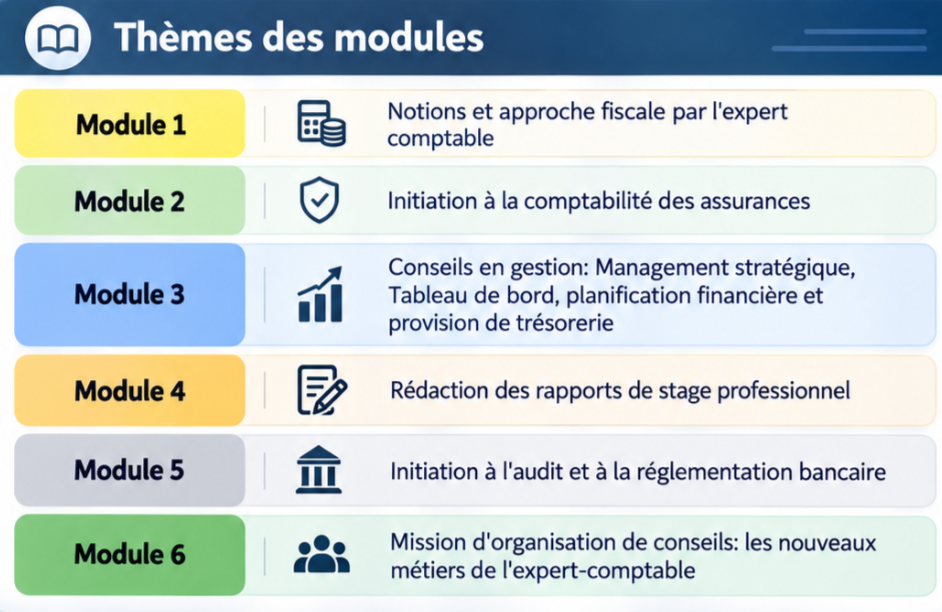
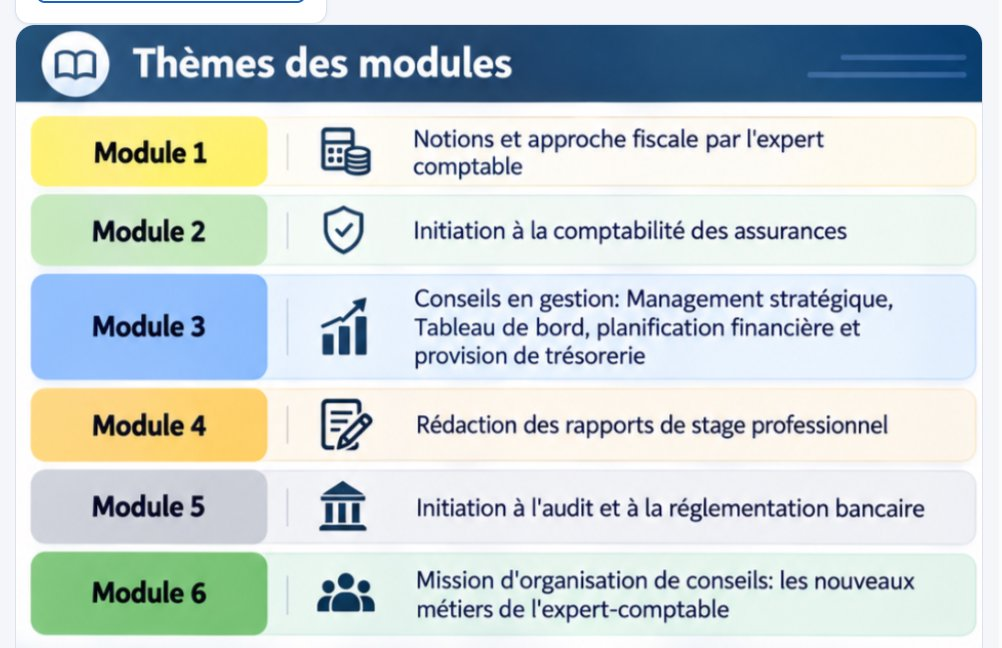
feat: actualiser le calendrier JT 1.2, integrer le demarrage JT 1.3 au 10 decembre et mettre a jour le visuel officiel des themes

diff --git a/index.html b/index.html
@@ -431,15 +431,15 @@
       <section class="launch" aria-labelledby="launch-title">
         <span class="badge">JT 1.2 · En cours</span>
         <h3 id="launch-title">Deuxième session des Journées Techniques</h3>
-        <p>Du 30 septembre au 5 décembre 2026 · Clôture définitive le 5 décembre à 23 h 59 GMT. Prochaine ouverture : Module 5 le dimanche 15 novembre 2026.</p>
+        <p>Du 30 septembre au 5 décembre 2026 · Clôture définitive le 5 décembre à 23 h 59 GMT · Démarrage des JT 1.3 le 10 décembre 2026. Prochaine ouverture : Module 5 le dimanche 15 novembre 2026.</p>
         <div class="actions"><button class="btn" type="button" data-open-tab="calendar">Voir le calendrier complet</button><a class="btn secondary" href="https://foad.decofi.cesag.sn/my/" target="_blank" rel="noopener">Ouvrir mes cours</a></div>
         <div class="module-showcase">
           <div class="module-mini"><strong>Module 1</strong><span>Notions et approche fiscale par l’expert-comptable</span><em>Hamadé OUEDRAOGO</em><a href="module-1-session-2-notions-approche-fiscale.html" class="module-pill-link">Replay &amp; Synthèse →</a></div>
           <div class="module-mini"><strong>Module 2</strong><span>Initiation à la comptabilité des assurances</span><em>Mouslimi ALASSANI</em><a href="module-2-initiation-comptabilite-assurances.html" class="module-pill-link">Replay &amp; Synthèse →</a></div>
-          <div class="module-mini"><strong>Module 3</strong><span>Conseils en gestion et planification financière</span><em>Pr Bachir WADE</em><a href="module-3-session-2-conseils-gestion.html" class="module-pill-link">★ Replay &amp; Synthèse →</a></div>
+          <div class="module-mini"><strong>Module 3</strong><span>Conseils en gestion : management stratégique, tableau de bord, planification financière</span><em>Pr Bachir WADE</em><a href="module-3-session-2-conseils-gestion.html" class="module-pill-link">★ Replay &amp; Synthèse →</a></div>
           <div class="module-mini"><strong>Module 4</strong><span>Rédaction des rapports de stage professionnel</span><em>Hamadé OUEDRAOGO</em><a href="module-4-session-2-rapport-stage.html" class="module-pill-link">Replay &amp; Synthèse →</a></div>
           <div class="module-mini"><strong>Module 5</strong><span>Initiation à l’audit et à la réglementation bancaire</span><em>Dicko &amp; Sirage</em></div>
-          <div class="module-mini"><strong>Module 6</strong><span>Mission d’organisation et de conseil</span><em>Hamadé OUEDRAOGO</em></div>
+          <div class="module-mini"><strong>Module 6</strong><span>Mission d’organisation de conseils : les nouveaux métiers de l’expert-comptable</span><em>Hamadé OUEDRAOGO</em></div>
         </div>
       </section>
 
@@ -518,7 +518,7 @@
 
     <section class="panel" id="panel-calendar" role="tabpanel" aria-labelledby="tab-calendar" hidden>
       <h2>Calendrier des Journées Techniques</h2>
-      <p class="lead"><strong>JT 1.2 — Calendrier actualisé à partir du 12 novembre 2026.</strong> Seules les échéances à venir sont affichées (les dates passées et dérogations individuelles ont été retirées). Clôture définitive le samedi 5 décembre 2026 à 23h59 GMT.</p>
+      <p class="lead"><strong>JT 1.2 — Calendrier officiel actualisé à partir du 12 novembre 2026.</strong> Seules les échéances à venir sont affichées (les dates passées et dérogations individuelles ont été retirées). Clôture définitive le samedi 5 décembre 2026 à 23h59 GMT. <strong>Lancement de la troisième session (JT 1.3) : jeudi 10 décembre 2026.</strong></p>
 
       <aside class="alert" aria-labelledby="calendar-provisional-title">
         <h3 id="calendar-provisional-title">📌 Rappels importants &amp; conditions d’accès</h3>
@@ -528,6 +528,7 @@
           <li><strong>Formulaire d’évaluation :</strong> à remplir obligatoirement avant le dernier devoir du module 6.</li>
           <li><strong>Fuseau horaire :</strong> toutes les heures indiquées sont en GMT.</li>
           <li><strong>Fin des JT 1.2 :</strong> samedi 5 décembre 2026 à 23h59 GMT.</li>
+          <li><strong>Démarrage des JT 1.3 :</strong> jeudi 10 décembre 2026.</li>
         </ul>
       </aside>
       <div style="margin: 16px 0 24px;">
@@ -679,7 +680,7 @@
 
   <script>
     "use strict";
-        const SESSIONS=[{"number":1,"title":"Session 1","period":"Du 17 juillet 2026 au 29 août 2026","moduleCount":5,"items":[{"start":"2026-07-17","end":"2026-07-20","period":"Du 17 juillet 2026 au 20 juillet 2026","module":"Module 1","section":"Section 1","theme":"Découverte de la profession d’expert-comptable"},{"start":"2026-07-21","end":"2026-07-24","period":"Du 21 juillet 2026 au 24 juillet 2026","module":"Module 1","section":"Section 2","theme":"Découverte de la profession d’expert-comptable"},{"start":"2026-07-25","end":"2026-07-28","period":"Du 25 juillet 2026 au 28 juillet 2026","module":"Module 1","section":"Section 3","theme":"Découverte de la profession d’expert-comptable"},{"start":"2026-07-29","end":"2026-08-01","period":"Du 29 juillet 2026 au 01 août 2026","module":"Module 1","section":"Section 4","theme":"Découverte de la profession d’expert-comptable"},{"start":"2026-08-01","end":"2026-08-01","period":"01 août 2026","module":"Module 2","section":"Séquence 1","theme":"Méthodologie d’audit — M. Charles KOUPHIN"},{"start":"2026-08-10","end":"2026-08-10","period":"10 août 2026","module":"Module 3","section":"Séquence 1","theme":"Mission de présentation des comptes annuels — M. Cheickna DIAWARA"},{"start":"2026-08-04","end":"2026-08-04","period":"04 août 2026","module":"Module 2","section":"Séquence 2","theme":"Techniques et outils"},{"start":"2026-08-15","end":"2026-08-15","period":"15 août 2026","module":"Module 3","section":"Séquence 2","theme":"Mission de présentation des comptes annuels"},{"start":"2026-08-07","end":"2026-08-07","period":"07 août 2026","module":"Module 2","section":"Séquence 3","theme":"Documentation et papiers de travail"},{"start":"2026-08-10","end":"2026-08-10","period":"10 août 2026","module":"Module 2","section":"Séquence 4","theme":"Rapports d’audit"},{"start":"2026-08-20","end":"2026-08-20","period":"20 août 2026","module":"Module 3","section":"Séquence 3","theme":"Mission de présentation des comptes annuels"},{"start":"2026-08-10","end":"2026-08-13","period":"Du 10 août 2026 au 13 août 2026","module":"Module 4","section":"Section 1","theme":"Circularisation des tiers et inventaires de stocks"},{"start":"2026-08-25","end":"2026-08-25","period":"25 août 2026","module":"Module 3","section":"Séquence 4","theme":"Mission de présentation des comptes annuels"},{"start":"2026-08-14","end":"2026-08-17","period":"Du 14 août 2026 au 17 août 2026","module":"Module 4","section":"Section 2","theme":"Circularisation des tiers et inventaires de stocks"},{"start":"2026-08-15","end":"2026-08-15","period":"15 août 2026 à 23 h 59","module":"Module 2","section":"Échéance","theme":"Date limite des quiz et du devoir individuel (PDF, 2 pages maximum)"},{"start":"2026-08-18","end":"2026-08-21","period":"Du 18 août 2026 au 21 août 2026","module":"Module 4","section":"Section 3","theme":"Circularisation des tiers et inventaires de stocks"},{"start":"2026-08-18","end":"2026-08-21","period":"Du 18 août 2026 au 21 août 2026","module":"Module 5","section":"Section 1","theme":"Sensibilisation à la déontologie et à la pratique professionnelle — M. ALASSANI"},{"start":"2026-08-22","end":"2026-08-25","period":"Du 22 août 2026 au 25 août 2026","module":"Module 4","section":"Section 4","theme":"Circularisation des tiers et inventaires de stocks"},{"start":"2026-08-22","end":"2026-08-25","period":"Du 22 août 2026 au 25 août 2026","module":"Module 5","section":"Section 2","theme":"Sensibilisation à la déontologie et à la pratique professionnelle"},{"start":"2026-08-26","end":"2026-08-29","period":"Du 26 août 2026 au 29 août 2026","module":"Module 5","section":"Section 3","theme":"Sensibilisation à la déontologie et à la pratique professionnelle"}]},{"number":2,"title":"Deuxième session — JT 1.2 (Séquences à venir)","period":"Du 15 novembre au 5 décembre 2026","moduleCount":2,"items":[{"start":"2026-11-15","end":"2026-11-17","period":"Dimanche 15 novembre 2026","module":"Module 5","section":"Séquence 1","theme":"Accueil du module et séquence 1 : forum, quiz de vérification des acquis, travail de groupe (un seul dépôt par groupe)","presenter":"Initiation à l’audit et à la réglementation bancaire"},{"start":"2026-11-18","end":"2026-11-20","period":"Mercredi 18 novembre 2026","module":"Module 5","section":"Séquence 2","theme":"Support de cours, quiz, forum","presenter":"Initiation à l’audit et à la réglementation bancaire"},{"start":"2026-11-21","end":"2026-11-23","period":"Samedi 21 novembre 2026","module":"Module 5","section":"Séquence 3","theme":"Support de cours, quiz","presenter":"Initiation à l’audit et à la réglementation bancaire"},{"start":"2026-11-24","end":"2026-11-26","period":"Mardi 24 novembre 2026","module":"Module 5","section":"Séquence 4","theme":"Support de cours, quiz","presenter":"Initiation à l’audit et à la réglementation bancaire"},{"start":"2026-11-27","end":"2026-11-27","period":"Vendredi 27 novembre 2026 à 23 h 59","module":"Module 5","section":"Date limite","theme":"Date limite du module 5 : pour les quatre quiz et le travail de groupe","presenter":"Initiation à l’audit et à la réglementation bancaire"},{"start":"2026-11-29","end":"2026-12-01","period":"Dimanche 29 novembre 2026","module":"Module 6","section":"Séquence 1","theme":"Accueil, bienvenue, ressources, séquence 1 (forum et quiz), formulaire d’évaluation","presenter":"Mission d’organisation de conseils : les nouveaux métiers de l’expert-comptable"},{"start":"2026-12-02","end":"2026-12-04","period":"Mercredi 2 décembre 2026","module":"Module 6","section":"Séquence 2","theme":"Séquence 2 : forum, quiz, devoir « Travail à rendre »","presenter":"Mission d’organisation de conseils : les nouveaux métiers de l’expert-comptable"},{"start":"2026-12-05","end":"2026-12-05","period":"Samedi 5 décembre 2026 à 23 h 59","module":"Module 6","section":"Date limite & Fin JT 1.2","theme":"Date limite du module 6 (quiz, formulaire d’évaluation, devoir) — Fin des JT 1.2 à 23h59 GMT","presenter":"Mission d’organisation de conseils : les nouveaux métiers de l’expert-comptable"}]},{"number":3,"title":"Session 3","period":"Du 03 novembre 2026 au 22 décembre 2026","moduleCount":5,"items":[{"start":"2026-11-03","end":"2026-11-06","period":"Du 03 novembre 2026 au 06 novembre 2026","module":"Module 1","section":"Section 1","theme":"Sensibilisation à la lutte contre le blanchiment et le financement du terrorisme"},{"start":"2026-11-07","end":"2026-11-10","period":"Du 07 novembre 2026 au 10 novembre 2026","module":"Module 1","section":"Section 2","theme":"Sensibilisation à la lutte contre le blanchiment et le financement du terrorisme"},{"start":"2026-11-11","end":"2026-11-14","period":"Du 11 novembre 2026 au 14 novembre 2026","module":"Module 1","section":"Section 3","theme":"Sensibilisation à la lutte contre le blanchiment et le financement du terrorisme"},{"start":"2026-11-11","end":"2026-11-14","period":"Du 11 novembre 2026 au 14 novembre 2026","module":"Module 2","section":"Section 1","theme":"Prise en compte de la réglementation sociale"},{"start":"2026-11-15","end":"2026-11-18","period":"Du 15 novembre 2026 au 18 novembre 2026","module":"Module 1","section":"Section 4","theme":"Sensibilisation à la lutte contre le blanchiment et le financement du terrorisme"},{"start":"2026-11-15","end":"2026-11-18","period":"Du 15 novembre 2026 au 18 novembre 2026","module":"Module 2","section":"Section 2","theme":"Prise en compte de la réglementation sociale"},{"start":"2026-11-19","end":"2026-11-22","period":"Du 19 novembre 2026 au 22 novembre 2026","module":"Module 2","section":"Section 3","theme":"Prise en compte de la réglementation sociale"},{"start":"2026-11-19","end":"2026-11-22","period":"Du 19 novembre 2026 au 22 novembre 2026","module":"Module 3","section":"Section 1","theme":"Initiation à l’audit des SFD"},{"start":"2026-11-23","end":"2026-11-26","period":"Du 23 novembre 2026 au 26 novembre 2026","module":"Module 2","section":"Section 4","theme":"Prise en compte de la réglementation sociale"},{"start":"2026-11-23","end":"2026-11-26","period":"Du 23 novembre 2026 au 26 novembre 2026","module":"Module 3","section":"Section 2","theme":"Initiation à l’audit des SFD"},{"start":"2026-11-27","end":"2026-11-30","period":"Du 27 novembre 2026 au 30 novembre 2026","module":"Module 3","section":"Section 3","theme":"Initiation à l’audit des SFD"},{"start":"2026-11-27","end":"2026-11-30","period":"Du 27 novembre 2026 au 30 novembre 2026","module":"Module 4","section":"Section 1","theme":"Excel au service des missions du cabinet"},{"start":"2026-12-01","end":"2026-12-04","period":"Du 01 décembre 2026 au 04 décembre 2026","module":"Module 3","section":"Section 4","theme":"Initiation à l’audit des SFD"},{"start":"2026-12-01","end":"2026-12-04","period":"Du 01 décembre 2026 au 04 décembre 2026","module":"Module 4","section":"Section 2","theme":"Excel au service des missions du cabinet"},{"start":"2026-12-05","end":"2026-12-08","period":"Du 05 décembre 2026 au 08 décembre 2026","module":"Module 5","section":"Section 1","theme":"Comptabilité des EBNL"},{"start":"2026-12-09","end":"2026-12-12","period":"Du 09 décembre 2026 au 12 décembre 2026","module":"Module 5","section":"Section 2","theme":"Comptabilité des EBNL"},{"start":"2026-12-13","end":"2026-12-16","period":"Du 13 décembre 2026 au 16 décembre 2026","module":"Module 5","section":"Section 3","theme":"Comptabilité des EBNL"},{"start":"2026-12-19","end":"2026-12-22","period":"Du 19 décembre 2026 au 22 décembre 2026","module":"Module 5","section":"Section 4","theme":"Comptabilité des EBNL"}]}];
+        const SESSIONS=[{"number": 1, "title": "Session 1", "period": "Du 17 juillet 2026 au 29 août 2026", "moduleCount": 5, "items": [{"start": "2026-07-17", "end": "2026-07-20", "period": "Du 17 juillet 2026 au 20 juillet 2026", "module": "Module 1", "section": "Section 1", "theme": "Découverte de la profession d’expert-comptable"}, {"start": "2026-07-21", "end": "2026-07-24", "period": "Du 21 juillet 2026 au 24 juillet 2026", "module": "Module 1", "section": "Section 2", "theme": "Découverte de la profession d’expert-comptable"}, {"start": "2026-07-25", "end": "2026-07-28", "period": "Du 25 juillet 2026 au 28 juillet 2026", "module": "Module 1", "section": "Section 3", "theme": "Découverte de la profession d’expert-comptable"}, {"start": "2026-07-29", "end": "2026-08-01", "period": "Du 29 juillet 2026 au 01 août 2026", "module": "Module 1", "section": "Section 4", "theme": "Découverte de la profession d’expert-comptable"}, {"start": "2026-08-01", "end": "2026-08-01", "period": "01 août 2026", "module": "Module 2", "section": "Séquence 1", "theme": "Méthodologie d’audit — M. Charles KOUPHIN"}, {"start": "2026-08-10", "end": "2026-08-10", "period": "10 août 2026", "module": "Module 3", "section": "Séquence 1", "theme": "Mission de présentation des comptes annuels — M. Cheickna DIAWARA"}, {"start": "2026-08-04", "end": "2026-08-04", "period": "04 août 2026", "module": "Module 2", "section": "Séquence 2", "theme": "Techniques et outils"}, {"start": "2026-08-15", "end": "2026-08-15", "period": "15 août 2026", "module": "Module 3", "section": "Séquence 2", "theme": "Mission de présentation des comptes annuels"}, {"start": "2026-08-07", "end": "2026-08-07", "period": "07 août 2026", "module": "Module 2", "section": "Séquence 3", "theme": "Documentation et papiers de travail"}, {"start": "2026-08-10", "end": "2026-08-10", "period": "10 août 2026", "module": "Module 2", "section": "Séquence 4", "theme": "Rapports d’audit"}, {"start": "2026-08-20", "end": "2026-08-20", "period": "20 août 2026", "module": "Module 3", "section": "Séquence 3", "theme": "Mission de présentation des comptes annuels"}, {"start": "2026-08-10", "end": "2026-08-13", "period": "Du 10 août 2026 au 13 août 2026", "module": "Module 4", "section": "Section 1", "theme": "Circularisation des tiers et inventaires de stocks"}, {"start": "2026-08-25", "end": "2026-08-25", "period": "25 août 2026", "module": "Module 3", "section": "Séquence 4", "theme": "Mission de présentation des comptes annuels"}, {"start": "2026-08-14", "end": "2026-08-17", "period": "Du 14 août 2026 au 17 août 2026", "module": "Module 4", "section": "Section 2", "theme": "Circularisation des tiers et inventaires de stocks"}, {"start": "2026-08-15", "end": "2026-08-15", "period": "15 août 2026 à 23 h 59", "module": "Module 2", "section": "Échéance", "theme": "Date limite des quiz et du devoir individuel (PDF, 2 pages maximum)"}, {"start": "2026-08-18", "end": "2026-08-21", "period": "Du 18 août 2026 au 21 août 2026", "module": "Module 4", "section": "Section 3", "theme": "Circularisation des tiers et inventaires de stocks"}, {"start": "2026-08-18", "end": "2026-08-21", "period": "Du 18 août 2026 au 21 août 2026", "module": "Module 5", "section": "Section 1", "theme": "Sensibilisation à la déontologie et à la pratique professionnelle — M. ALASSANI"}, {"start": "2026-08-22", "end": "2026-08-25", "period": "Du 22 août 2026 au 25 août 2026", "module": "Module 4", "section": "Section 4", "theme": "Circularisation des tiers et inventaires de stocks"}, {"start": "2026-08-22", "end": "2026-08-25", "period": "Du 22 août 2026 au 25 août 2026", "module": "Module 5", "section": "Section 2", "theme": "Sensibilisation à la déontologie et à la pratique professionnelle"}, {"start": "2026-08-26", "end": "2026-08-29", "period": "Du 26 août 2026 au 29 août 2026", "module": "Module 5", "section": "Section 3", "theme": "Sensibilisation à la déontologie et à la pratique professionnelle"}]}, {"number": 2, "title": "Deuxième session — JT 1.2 (Séquences à venir)", "period": "Du 15 novembre au 5 décembre 2026", "moduleCount": 2, "items": [{"start": "2026-11-15", "end": "2026-11-17", "period": "Dimanche 15 novembre 2026", "module": "Module 5", "section": "Séquence 1", "theme": "Accueil du module et séquence 1 : forum, quiz de vérification des acquis, travail de groupe (un seul dépôt par groupe)", "presenter": "Initiation à l’audit et à la réglementation bancaire"}, {"start": "2026-11-18", "end": "2026-11-20", "period": "Mercredi 18 novembre 2026", "module": "Module 5", "section": "Séquence 2", "theme": "Support de cours, quiz, forum", "presenter": "Initiation à l’audit et à la réglementation bancaire"}, {"start": "2026-11-21", "end": "2026-11-23", "period": "Samedi 21 novembre 2026", "module": "Module 5", "section": "Séquence 3", "theme": "Support de cours, quiz", "presenter": "Initiation à l’audit et à la réglementation bancaire"}, {"start": "2026-11-24", "end": "2026-11-26", "period": "Mardi 24 novembre 2026", "module": "Module 5", "section": "Séquence 4", "theme": "Support de cours, quiz", "presenter": "Initiation à l’audit et à la réglementation bancaire"}, {"start": "2026-11-27", "end": "2026-11-27", "period": "Vendredi 27 novembre 2026 à 23 h 59", "module": "Module 5", "section": "Date limite M5", "theme": "Date limite du module 5 : pour les quatre quiz et le travail de groupe", "presenter": "Initiation à l’audit et à la réglementation bancaire"}, {"start": "2026-11-29", "end": "2026-12-01", "period": "Dimanche 29 novembre 2026", "module": "Module 6", "section": "Séquence 1", "theme": "Accueil, bienvenue, ressources, séquence 1 (forum et quiz), formulaire d’évaluation", "presenter": "Mission d’organisation de conseils : les nouveaux métiers de l’expert-comptable"}, {"start": "2026-12-02", "end": "2026-12-04", "period": "Mercredi 2 décembre 2026", "module": "Module 6", "section": "Séquence 2", "theme": "Séquence 2 : forum, quiz, devoir « Travail à rendre »", "presenter": "Mission d’organisation de conseils : les nouveaux métiers de l’expert-comptable"}, {"start": "2026-12-05", "end": "2026-12-05", "period": "Samedi 5 décembre 2026 à 23 h 59", "module": "Module 6", "section": "Date limite & Fin JT 1.2", "theme": "Date limite du module 6 (quiz, formulaire d’évaluation, devoir) — Fin des JT 1.2 à 23h59 GMT", "presenter": "Mission d’organisation de conseils : les nouveaux métiers de l’expert-comptable"}]}, {"number": 3, "title": "Troisième session — JT 1.3", "period": "Du 10 décembre 2026 au 28 janvier 2027", "moduleCount": 5, "items": [{"start": "2026-12-10", "end": "2026-12-13", "period": "Du 10 décembre 2026 au 13 décembre 2026", "module": "Module 1", "section": "Section 1", "theme": "Sensibilisation à la lutte contre le blanchiment et le financement du terrorisme"}, {"start": "2026-12-14", "end": "2026-12-17", "period": "Du 14 décembre 2026 au 17 décembre 2026", "module": "Module 1", "section": "Section 2", "theme": "Sensibilisation à la lutte contre le blanchiment et le financement du terrorisme"}, {"start": "2026-12-18", "end": "2026-12-21", "period": "Du 18 décembre 2026 au 21 décembre 2026", "module": "Module 1", "section": "Section 3", "theme": "Sensibilisation à la lutte contre le blanchiment et le financement du terrorisme"}, {"start": "2026-12-18", "end": "2026-12-21", "period": "Du 18 décembre 2026 au 21 décembre 2026", "module": "Module 2", "section": "Section 1", "theme": "Prise en compte de la réglementation sociale"}, {"start": "2026-12-22", "end": "2026-12-25", "period": "Du 22 décembre 2026 au 25 décembre 2026", "module": "Module 1", "section": "Section 4", "theme": "Sensibilisation à la lutte contre le blanchiment et le financement du terrorisme"}, {"start": "2026-12-22", "end": "2026-12-25", "period": "Du 22 décembre 2026 au 25 décembre 2026", "module": "Module 2", "section": "Section 2", "theme": "Prise en compte de la réglementation sociale"}, {"start": "2026-12-26", "end": "2026-12-29", "period": "Du 26 décembre 2026 au 29 décembre 2026", "module": "Module 2", "section": "Section 3", "theme": "Prise en compte de la réglementation sociale"}, {"start": "2026-12-26", "end": "2026-12-29", "period": "Du 26 décembre 2026 au 29 décembre 2026", "module": "Module 3", "section": "Section 1", "theme": "Initiation à l’audit des SFD"}, {"start": "2026-12-30", "end": "2027-01-02", "period": "Du 30 décembre 2026 au 02 janvier 2027", "module": "Module 2", "section": "Section 4", "theme": "Prise en compte de la réglementation sociale"}, {"start": "2026-12-30", "end": "2027-01-02", "period": "Du 30 décembre 2026 au 02 janvier 2027", "module": "Module 3", "section": "Section 2", "theme": "Initiation à l’audit des SFD"}, {"start": "2027-01-03", "end": "2027-01-06", "period": "Du 03 janvier 2027 au 06 janvier 2027", "module": "Module 3", "section": "Section 3", "theme": "Initiation à l’audit des SFD"}, {"start": "2027-01-03", "end": "2027-01-06", "period": "Du 03 janvier 2027 au 06 janvier 2027", "module": "Module 4", "section": "Section 1", "theme": "Excel au service des missions du cabinet"}, {"start": "2027-01-07", "end": "2027-01-10", "period": "Du 07 janvier 2027 au 10 janvier 2027", "module": "Module 3", "section": "Section 4", "theme": "Initiation à l’audit des SFD"}, {"start": "2027-01-07", "end": "2027-01-10", "period": "Du 07 janvier 2027 au 10 janvier 2027", "module": "Module 4", "section": "Section 2", "theme": "Excel au service des missions du cabinet"}, {"start": "2027-01-11", "end": "2027-01-14", "period": "Du 11 janvier 2027 au 14 janvier 2027", "module": "Module 5", "section": "Section 1", "theme": "Comptabilité des EBNL"}, {"start": "2027-01-15", "end": "2027-01-18", "period": "Du 15 janvier 2027 au 18 janvier 2027", "module": "Module 5", "section": "Section 2", "theme": "Comptabilité des EBNL"}, {"start": "2027-01-19", "end": "2027-01-22", "period": "Du 19 janvier 2027 au 22 janvier 2027", "module": "Module 5", "section": "Section 3", "theme": "Comptabilité des EBNL"}, {"start": "2027-01-25", "end": "2027-01-28", "period": "Du 25 janvier 2027 au 28 janvier 2027", "module": "Module 5", "section": "Section 4", "theme": "Comptabilité des EBNL"}]}];
         const COUNTRIES={"BENIN":{"label":"Bénin","flag":"🇧🇯"},"BURKINA FASO":{"label":"Burkina Faso","flag":"🇧🇫"},"COTE D'IVOIRE":{"label":"Côte d’Ivoire","flag":"🇨🇮"},"MALI":{"label":"Mali","flag":"🇲🇱"},"NIGER":{"label":"Niger","flag":"🇳🇪"},"SENEGAL":{"label":"Sénégal","flag":"🇸🇳"},"TOGO":{"label":"Togo","flag":"🇹🇬"},"CNS":{"label":"CNS","flag":""},"STAFF TECHNIQUE":{"label":"Staff technique","flag":""}};
     // Ajouter ici les rediffusions. Les liens de synthèse et de transcription restent facultatifs.
     const RECORDINGS=[{
@@ -942,13 +943,15 @@
     })();
 
     const sessionsRoot=document.getElementById('sessions');
-    SESSIONS.slice().sort((a,b)=>({2:0,1:1,3:2}[a.number]-{2:0,1:1,3:2}[b.number])).forEach(session=>{
+    SESSIONS.slice().sort((a,b)=>({2:0,3:1,1:2}[a.number]-{2:0,3:1,1:2}[b.number])).forEach(session=>{
       const article=document.createElement('article');article.className='card session-card';
       const detailId='session-detail-'+session.number;
       const rows=session.items.map(item=>'<tr><td>'+esc(item.period)+'</td><td>'+esc(item.module)+'</td><td>'+esc(item.section)+'</td><td>'+esc(item.theme)+'</td><td>'+(item.presenter?esc(item.presenter):'—')+'</td></tr>').join('');
       const modules=Array.from(new Map(session.items.map(item=>[item.module,{title:item.theme,presenter:item.presenter||''}])).entries());
       const moduleList='<ul class="module-list" aria-label="Intitulés des modules">'+modules.map(([module,info])=>'<li><strong>'+esc(module)+'</strong> — '+esc(info.title)+(info.presenter?' <span class="muted">· '+esc(info.presenter)+'</span>':'')+'</li>').join('')+'</ul>';
-      article.innerHTML='<span class="badge b">JT '+jtLabel(session.number)+'</span><h3>'+esc(session.title)+'</h3><div class="session-meta"><span>'+esc(session.period)+'</span><span>'+session.moduleCount+' modules</span></div>'+moduleList+'<button class="btn secondary small detail-toggle" type="button" aria-expanded="false" aria-controls="'+detailId+'">Voir le calendrier détaillé</button><div class="detail" id="'+detailId+'" hidden><div class="table-wrap"><table><thead><tr><th>Période</th><th>Module</th><th>Section</th><th>Intitulé du module</th><th>Animateur</th></tr></thead><tbody>'+rows+'</tbody></table></div></div>';
+      const badgeClass = session.number === 2 ? 'badge' : (session.number === 3 ? 'badge b' : 'badge secondary');
+      const badgeText = session.number === 2 ? 'JT 1.2 · En cours' : (session.number === 3 ? 'JT 1.3 · À venir (Démarrage 10 déc.)' : 'JT 1.1 · Terminée (Archives)');
+      article.innerHTML='<span class="'+badgeClass+'">'+badgeText+'</span><h3>'+esc(session.title)+'</h3><div class="session-meta"><span>'+esc(session.period)+'</span><span>'+session.moduleCount+' modules</span></div>'+moduleList+'<button class="btn secondary small detail-toggle" type="button" aria-expanded="false" aria-controls="'+detailId+'">Voir le calendrier détaillé</button><div class="detail" id="'+detailId+'" hidden><div class="table-wrap"><table><thead><tr><th>Période</th><th>Module</th><th>Section</th><th>Intitulé du module</th><th>Animateur</th></tr></thead><tbody>'+rows+'</tbody></table></div></div>';
       sessionsRoot.appendChild(article);
     });
     document.querySelectorAll('.detail-toggle').forEach(button=>button.addEventListener('click',()=>{
